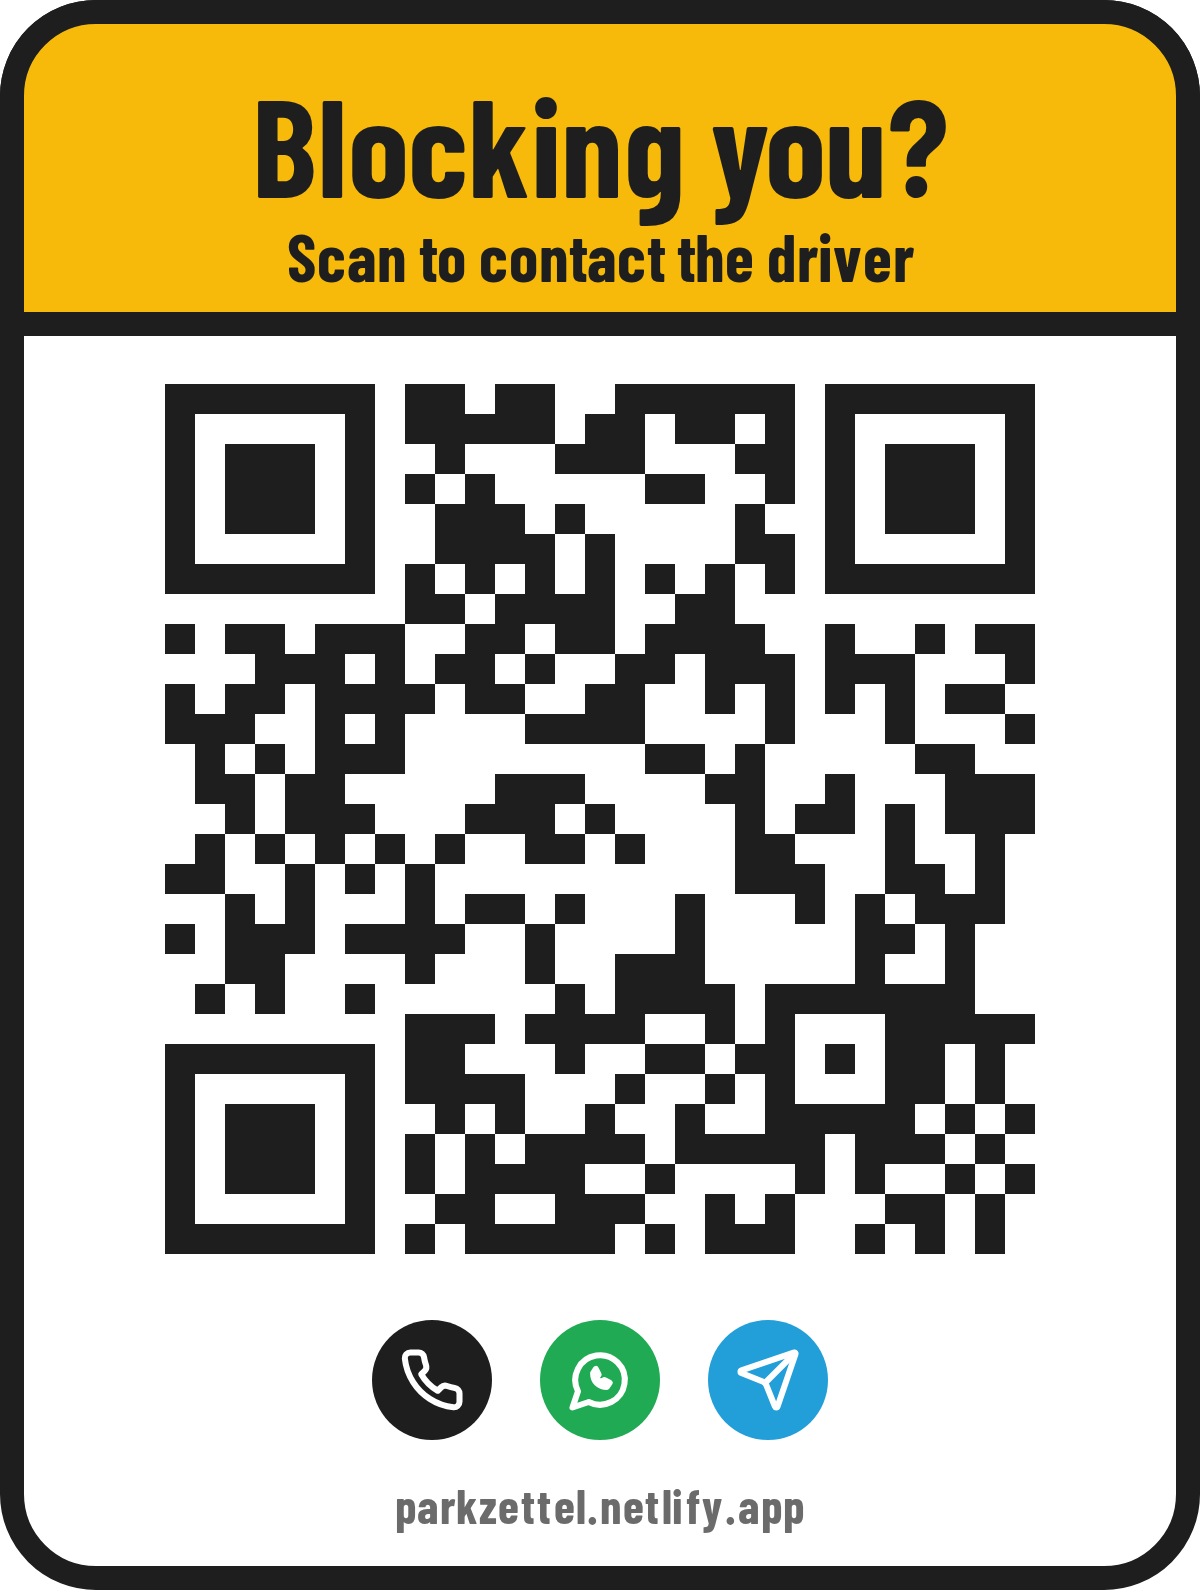
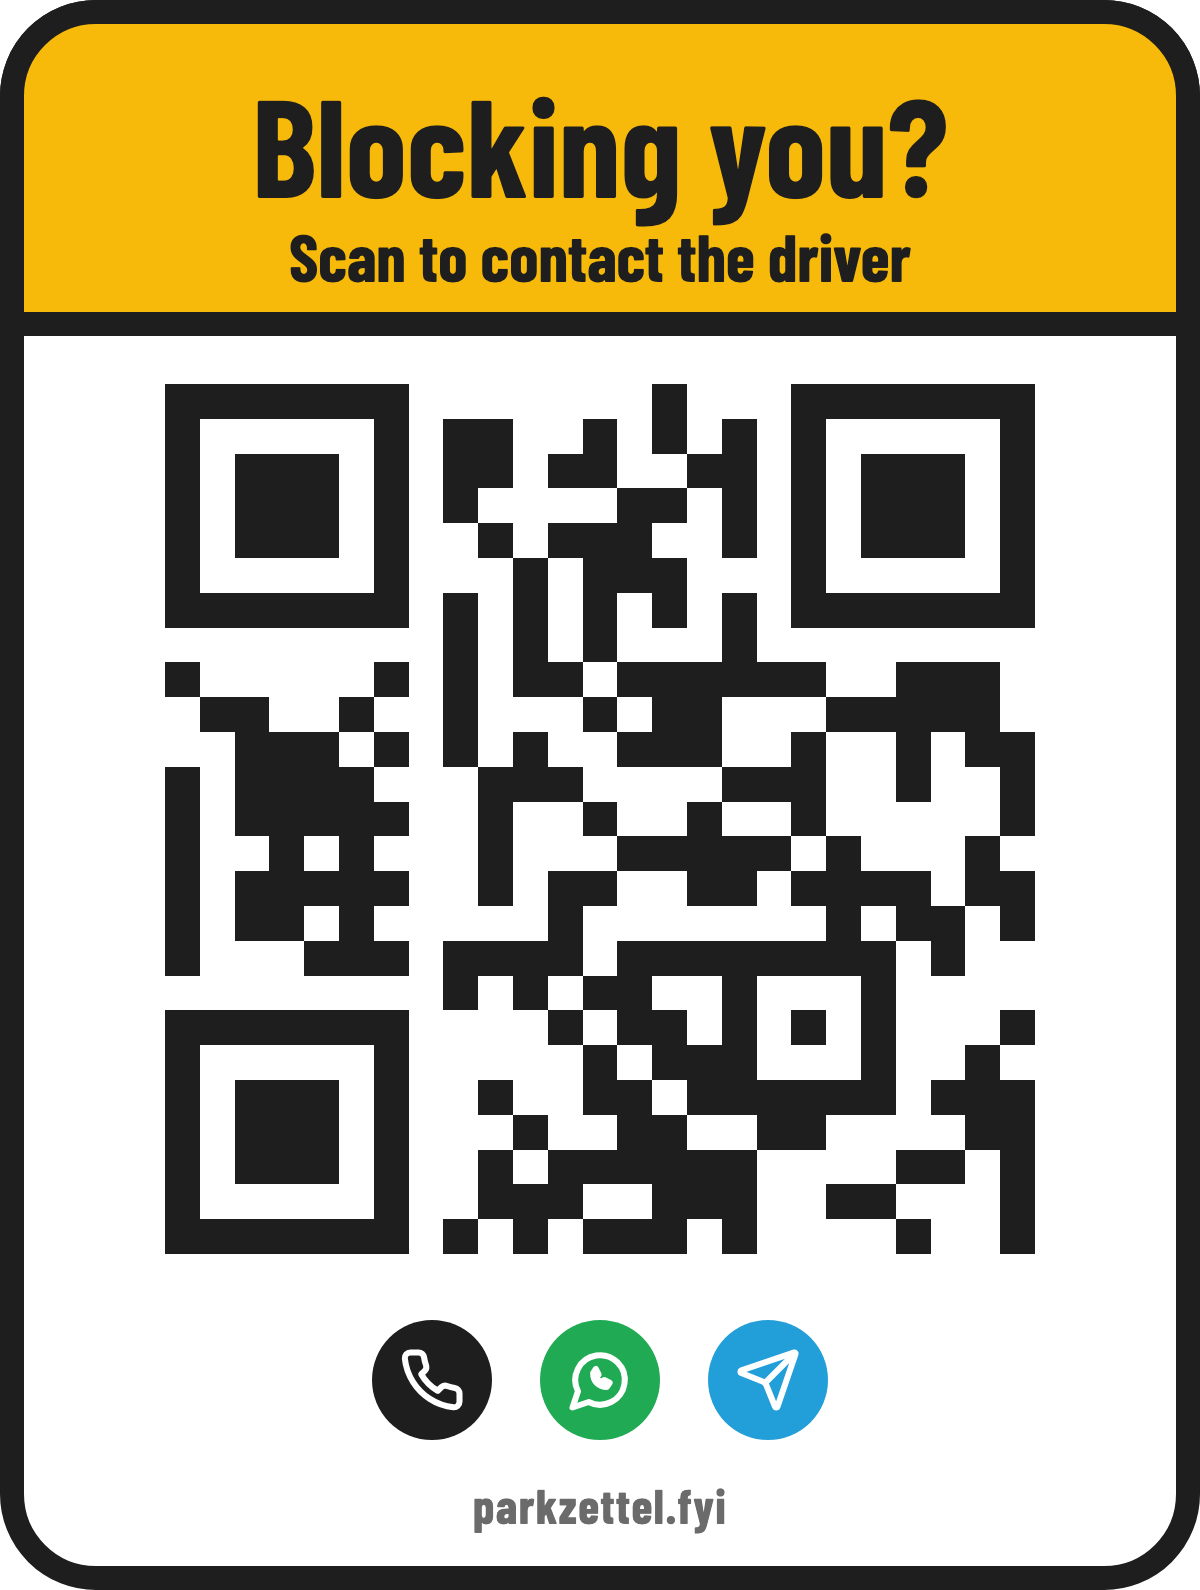
Move the site to parkzettel.fyi
Update the Open Graph URLs, the og-image and screenshot scripts, the README
example sticker and the docs. Runtime code already derives URLs from the
request origin, so nothing else changes.

diff --git a/index.html b/index.html
@@ -12,10 +12,10 @@
     <!-- Link previews (WhatsApp, Telegram, social). Absolute URLs: update them if the domain changes. -->
     <meta property="og:type" content="website" />
     <meta property="og:site_name" content="Parkzettel" />
-    <meta property="og:url" content="https://parkzettel.netlify.app/" />
+    <meta property="og:url" content="https://parkzettel.fyi/" />
     <meta property="og:title" content="Parkzettel: the digital note behind your windshield wiper" />
     <meta property="og:description" content="A QR sticker for your car. Whoever you block in scans it and reaches you, without your number on the windshield. Free, no app." />
-    <meta property="og:image" content="https://parkzettel.netlify.app/og.png" />
+    <meta property="og:image" content="https://parkzettel.fyi/og.png" />
     <meta property="og:image:width" content="1200" />
     <meta property="og:image:height" content="630" />
     <meta property="og:image:alt" content="Parkzettel sticker with a QR code and the headline Blocking you?" />

diff --git a/AGENTS.md b/AGENTS.md
@@ -93,7 +93,7 @@ src/icons.ts       Lucide-derived icon paths (ISC)
 src/share.ts       print sheet (two 80 mm copies, print CSS in style.css) and Web Share of the PNG
 src/plate.ts       EU plate stars and country codes
 docs/              README screenshots
-netlify.toml       Netlify build + headers (production: parkzettel.netlify.app)
+netlify.toml       Netlify build + headers (production: parkzettel.fyi)
 ```
 
 ## Gotchas
@@ -105,9 +105,15 @@ netlify.toml       Netlify build + headers (production: parkzettel.netlify.app)
 - Vite builds two pages (`index.html`, `account.html`); `/account` is routed to `account.html` in `netlify.toml`.
 - Secrets (`TELEGRAM_BOT_TOKEN`, `TELEGRAM_WEBHOOK_SECRET`, `SESSION_SECRET`) live only in Netlify environment
   variables scoped to Functions. Never expose them to the Vite build (`import.meta.env`).
-- Open Graph tags in `index.html` use absolute `https://parkzettel.netlify.app/` URLs; update them (and
+- Open Graph tags in `index.html` use absolute `https://parkzettel.fyi/` URLs; update them (and
   `SITE` in `scripts/og-image.mjs`, then `npm run og-image`) if the domain changes.
-- The Telegram webhook is registered by `POST /api/telegram/setup` on production; rerun it if the URL changes.
+- The domain is registered at Cloudflare; its DNS records point to Netlify with the proxy off (grey cloud).
+  Proxying would hide visitors' IPs from `context.ip` (relay rate limit) and put a third party in the path.
+- Stickers printed before the move encode `https://parkzettel.netlify.app/`. Netlify redirects that host to
+  the primary domain, keeping the path and the `#token` fragment. Never delete the site or rename the
+  `parkzettel` subdomain.
+- The Telegram webhook is registered by `POST /api/telegram/setup` on production; rerun it if the URL changes,
+  because Telegram does not follow redirects. The Login Widget needs the domain set in BotFather (`/setdomain`).
 - Token length drives QR density. Don't add payload fields or long defaults without a good reason.
 
 ## Commits and PRs
@@ -120,6 +126,6 @@ netlify.toml       Netlify build + headers (production: parkzettel.netlify.app)
 
 ## Deploys
 
-Netlify deploys `main` to https://parkzettel.netlify.app/ and builds a preview for every PR. The account is on
+Netlify deploys `main` to https://parkzettel.fyi/ and builds a preview for every PR. The account is on
 Netlify's credit-based free plan: each production deploy costs 15 of 300 monthly credits, and the site is paused
 when they run out. Batch changes into one PR rather than pushing many small commits to `main`.

diff --git a/README.md b/README.md
@@ -16,8 +16,8 @@ A **relay sticker** hides your phone number: messages reach you through a Telegr
 [![Relay stickers](https://img.shields.io/badge/relay%20stickers-Netlify%20Functions%20%2B%20Telegram-229ed9)](#relay-stickers)
 [![Languages](https://img.shields.io/badge/i18n-DE%20%C2%B7%20EN%20%C2%B7%20IT%20%2B%207%20scanner%20languages-141414)](#languages)
 
-[Live site](https://parkzettel.netlify.app/) ·
-[Create a sticker](https://parkzettel.netlify.app/create) ·
+[Live site](https://parkzettel.fyi/) ·
+[Create a sticker](https://parkzettel.fyi/create) ·
 [How it works](#how-it-works) ·
 [Run locally](#run-locally) ·
 [Run your own copy](#run-your-own-copy)
@@ -190,7 +190,7 @@ TELEGRAM_DRY_RUN=1 SESSION_SECRET=dev TELEGRAM_WEBHOOK_SECRET=dev TELEGRAM_BOT_T
 
 ## Run your own copy
 
-The live site is **https://parkzettel.netlify.app/**, deployed by Netlify from `main`.
+The live site is **https://parkzettel.fyi/**, deployed by Netlify from `main`.
 
 1. Import the repo into Netlify. [`netlify.toml`](netlify.toml) holds the build settings and security headers.
 2. For relay stickers, create a bot with [@BotFather](https://t.me/BotFather), run `/setdomain` with your site's domain, and add three environment variables scoped to **Functions**, marked as secret: `TELEGRAM_BOT_TOKEN`, `TELEGRAM_WEBHOOK_SECRET` (any random string) and `SESSION_SECRET` (another one). Set the bot username in `src/account.ts` and `netlify/lib/telegram.ts`. [`docs/bot-avatar.png`](docs/bot-avatar.png) is the bot's profile picture (`/setuserpic`).
